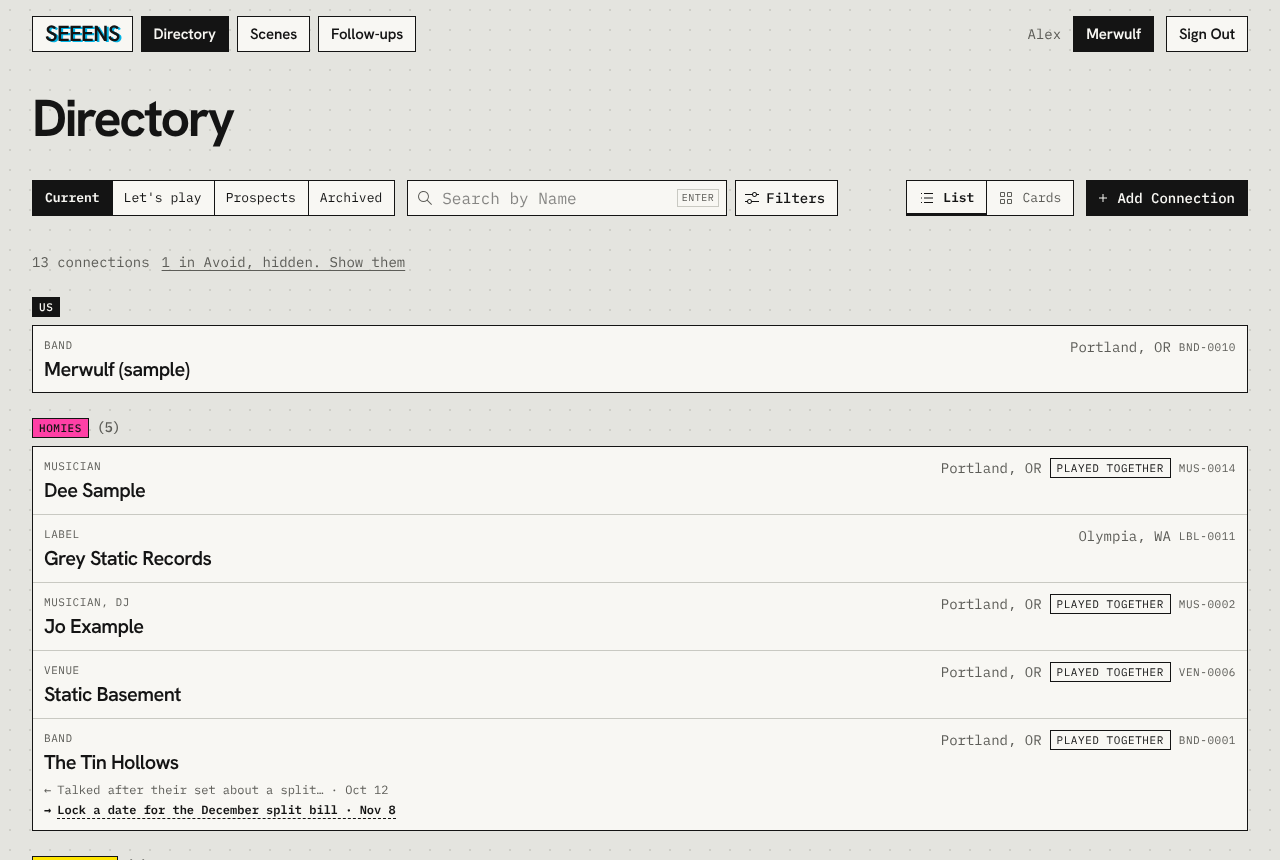
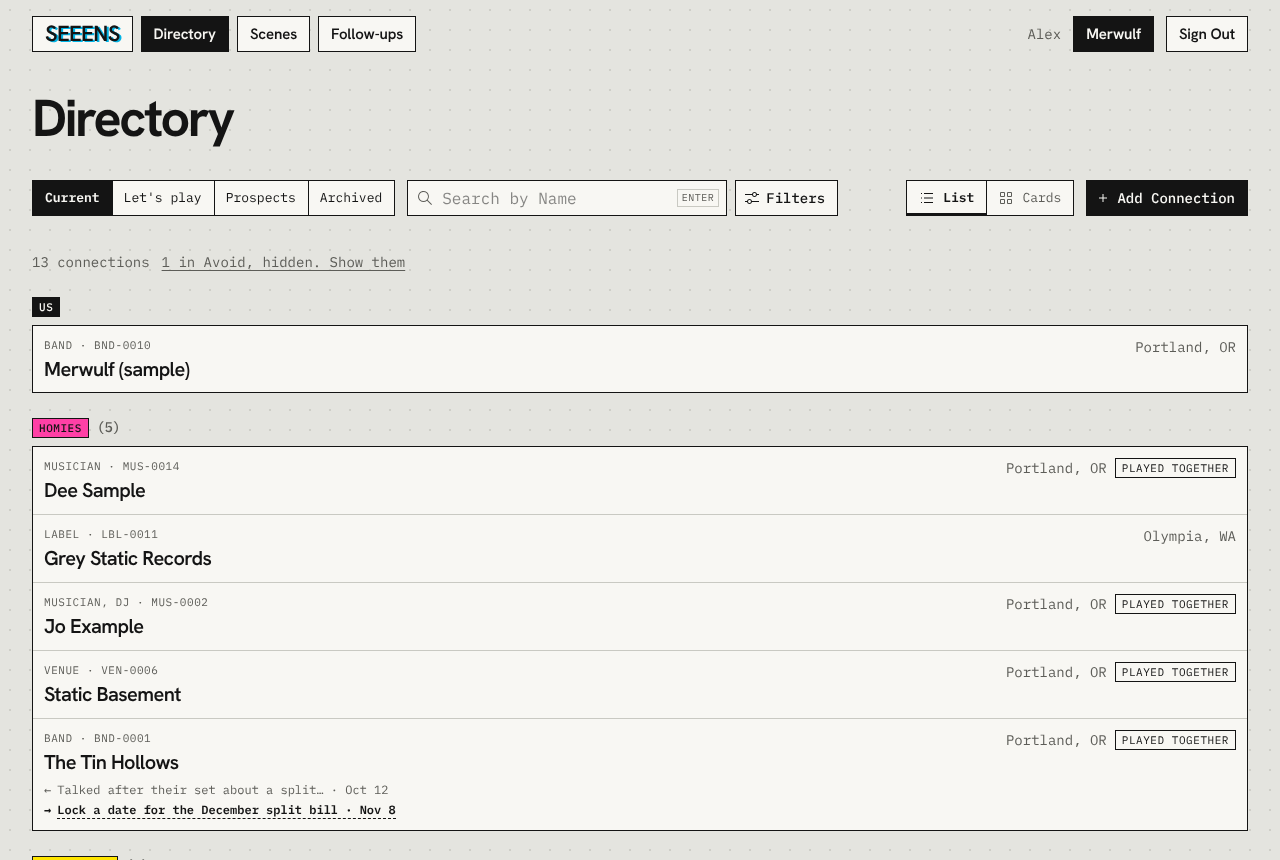
Put the catalog number in the list row caption
It now follows the type above the name ("BAND · BND-0010"), like the
card, instead of trailing the town and tags.

Claude-Session: https://claude.ai/code/session_01SMP6NnyPkRALtU7G1T7uNS

diff --git a/src/components/directory-results.tsx b/src/components/directory-results.tsx
@@ -138,7 +138,9 @@ function ConnectionRows({ connections, today }: { connections: DirectoryItem[]; 
                   <span className="font-display text-xl leading-6 font-semibold tracking-[-0.03em] break-words">
                     {c.name}
                   </span>
-                  <span className="caption">{formatType(c)}</span>
+                  <span className="caption">
+                    {formatType(c)} · <span className="whitespace-nowrap">{catalogNo(c)}</span>
+                  </span>
                 </span>
                 <DateLines lastOutreach={c.outreach_entries[0]} nextAction={c.next_actions[0]} today={today} />
               </span>
@@ -150,7 +152,6 @@ function ConnectionRows({ connections, today }: { connections: DirectoryItem[]; 
                     {t}
                   </span>
                 ))}
-                <span className="caption whitespace-nowrap">{catalogNo(c)}</span>
               </span>
             </Link>
           </li>

diff --git a/docs/design-system/rules.md b/docs/design-system/rules.md
@@ -39,7 +39,7 @@ Seeens is not a sales tool. Bands work on their own time, and urgency comes and 
 - Card grids fill the row with as many 280px-minimum columns as fit (`.card-grid`).
 - **Directory bar:** every directory control sits in one bar pinned to the top of the window (`.directory-bar`). From 1280px it's one row: views, then the search field (up to 320px, icon inside on the left, an ENTER keycap hint inside on the right) and Filters, then List/Cards and Add Connection on the right; the filter fields open under the middle. Below 1280, views and Add sit on top with search, Filters, and List/Cards under them. Filters is paper until the fields are open or a filter is set, then ink, so ink means something is in play. At rest the bar sits on the dot grid; once it pins it gets solid ground and a hairline underneath (`data-pinned`, set by `PinWatch`). Phones stack views, Add, and the search row, and pin only the search row and any open filters; there Filters shows its icon and count, and List/Cards becomes one button showing the other layout. Field labels are visually hidden and the placeholder names the field.
 - **Paging:** long lists load 48 at a time (rows of 2, 3, 4, or 6 cards fill evenly). A paper **Show More** sits under the results with "48 of 122 loaded" beside it (the count above the list says how many match, never how many are loaded); it appends in place, moves focus to the first new item, and announces how many loaded. Group headings count the whole group, not just what has loaded.
-- **Catalog numbers:** every connection shows its catalog number (`BND-0042`) in caption type wherever it appears: list rows (right end), cards (top-right of the meta box), the connection page (after type and town), link rows, and label mates. It is read aloud like any text. The prefix comes from the current type or first role (`catalogNo()` in `lib/connections/card.ts`); only the number is stored.
+- **Catalog numbers:** every connection shows its catalog number (`BND-0042`) in caption type wherever it appears: list rows (caption line, after the type), cards (top-right of the meta box), the connection page (after type and town), link rows, and label mates. It is read aloud like any text. The prefix comes from the current type or first role (`catalogNo()` in `lib/connections/card.ts`); only the number is stored.
 - **Icon-only buttons** are locked to 36 x 36, border included (`.button-icon`, or `.button-icon-phone` for buttons that drop their label below 640px). They never stretch or shrink in a row. A button showing a count next to its icon is no longer icon-only and sizes to its content.
 - **Segmented Control tones:** Primary (ink fill on the pick) is for the main choice on a page, like the directory views. Secondary (`.segmented-secondary`: paper stays paper, the pick gets ink text and a 2px ink underline, the rest go muted) is for settings beside it, like List/Cards.
 - Use a consistent spacing scale.
